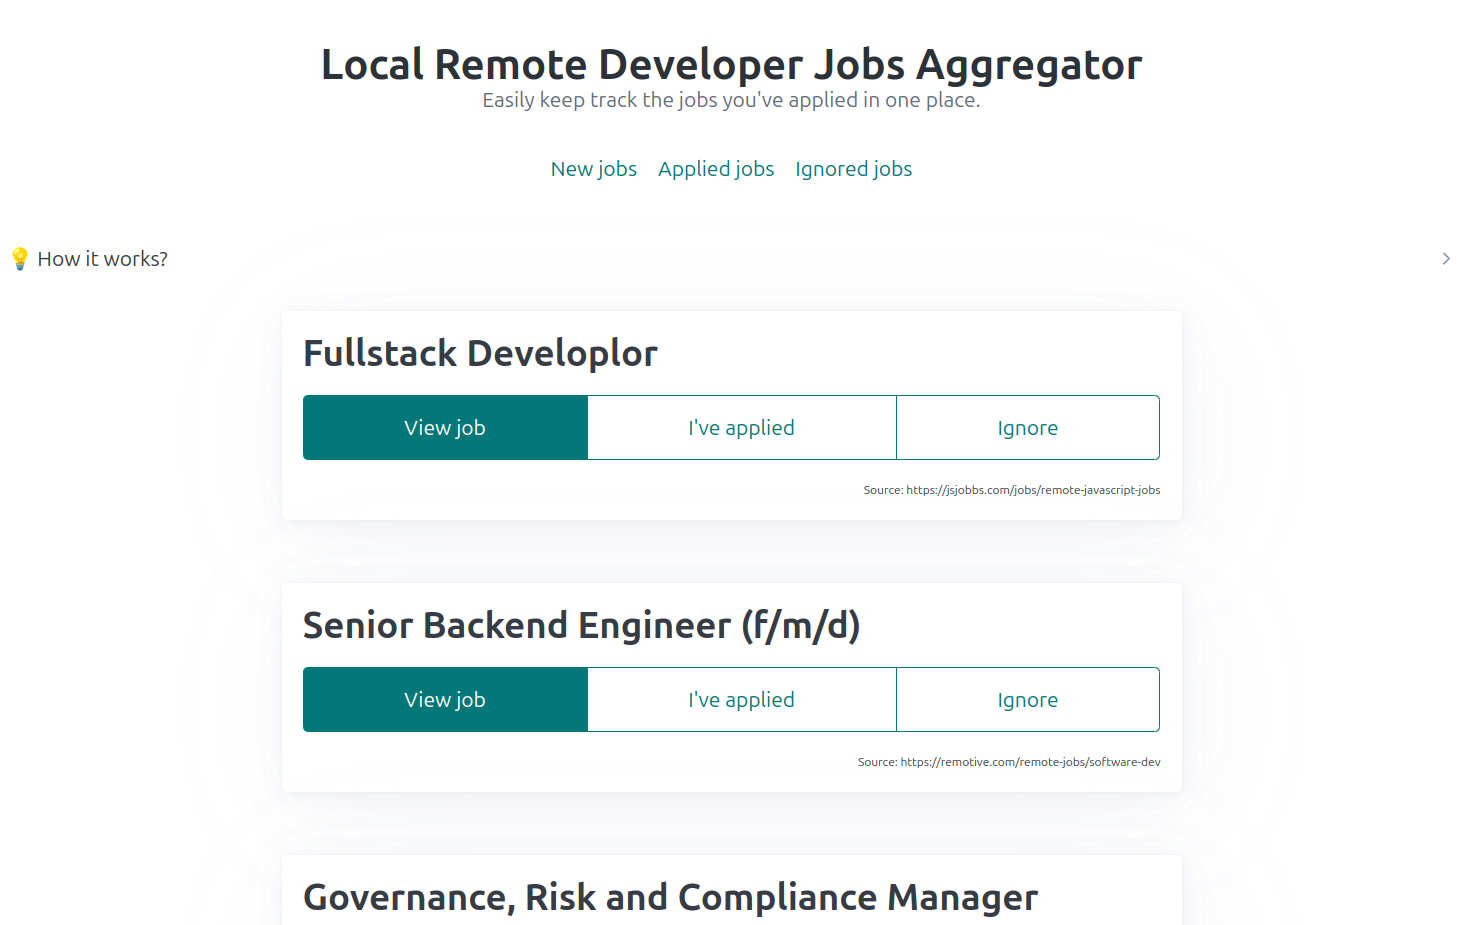
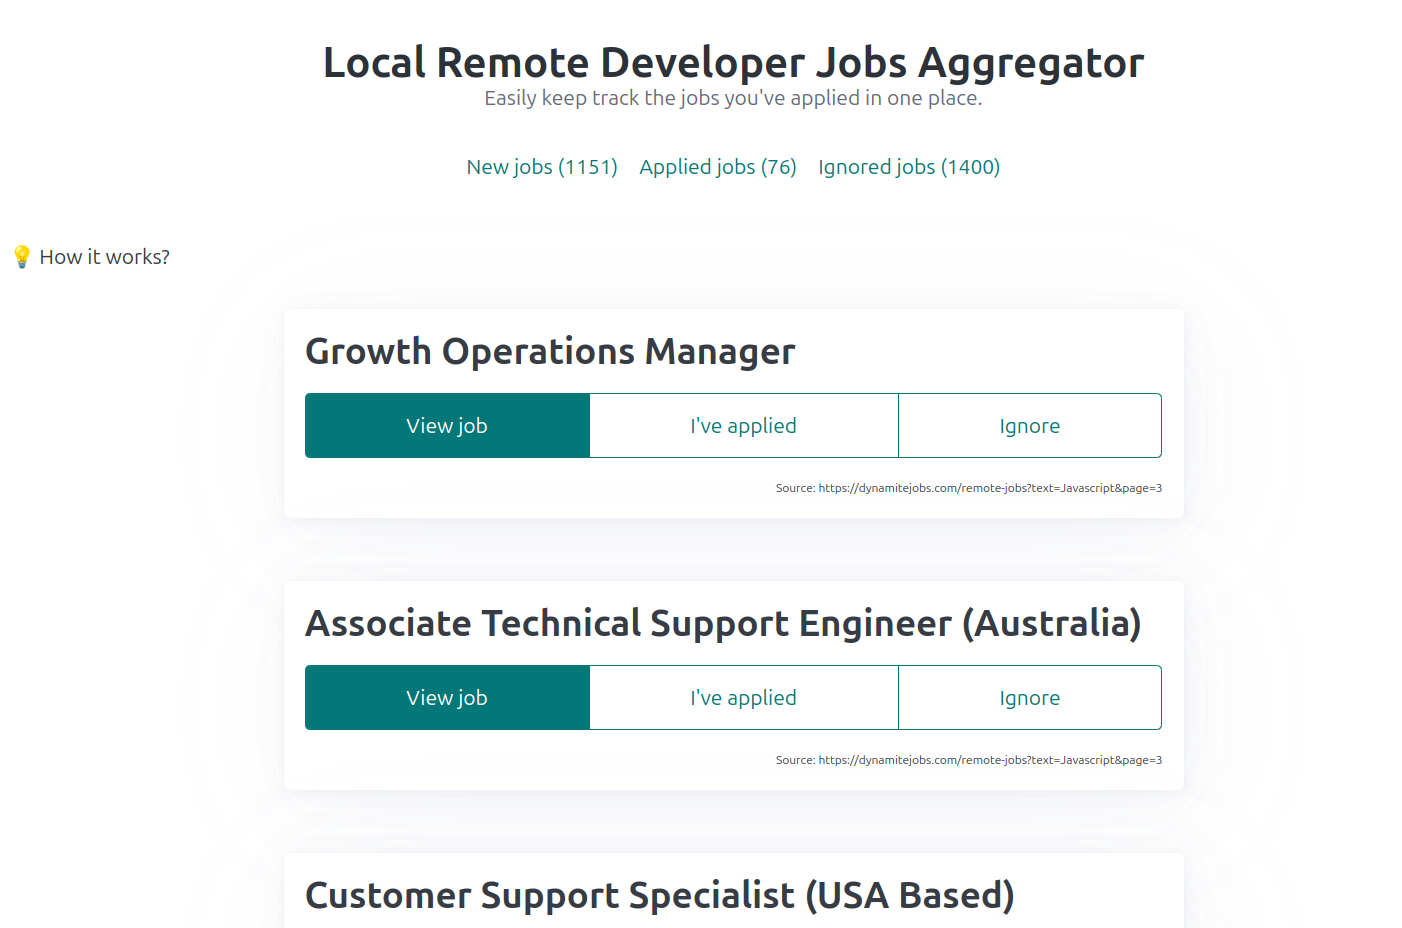
feat: added counter for new, applied and ignored jobs

diff --git a/server.ts b/server.ts
@@ -14,29 +14,33 @@ nunjucks.configure('templates', { autoescape: true })
 
 app.get('/', (c) => {
     const newJobs = repo.getNewJobs()
+    const jobsCount = repo.countJobs()
     return c.html(nunjucks.render('jobs.html',
-        { jobs: newJobs, jobType: 'new', page: 1, nextPage: 2, prevPage: 1 }))
+        { jobs: newJobs, jobType: 'new', jobsCount: jobsCount, page: 1, nextPage: 2, prevPage: 1 }))
 })
 
 app.get('/new/:page', (c) => {
     const page = Number(c.req.param('page'))
     const newJobs = repo.getNewJobs(page)
+    const jobsCount = repo.countJobs()
     return c.html(nunjucks.render('jobs.html',
-        { jobs: newJobs, jobType: 'new', page: page, nextPage: page + 1, prevPage: page - 1 }))
+        { jobs: newJobs, jobType: 'new', jobsCount: jobsCount, page: page, nextPage: page + 1, prevPage: page - 1 }))
 })
 
 app.get('/applied/:page', (c) => {
     const page = Number(c.req.param('page'))
     const appliedJobs = repo.getAppliedJobs(page)
+    const jobsCount = repo.countJobs()
     return c.html(nunjucks.render('jobs.html',
-        { jobs: appliedJobs, jobType: 'applied', page: page, nextPage: page + 1, prevPage: page - 1 }))
+        { jobs: appliedJobs, jobType: 'applied', jobsCount: jobsCount, page: page, nextPage: page + 1, prevPage: page - 1 }))
 })
 
 app.get('/ignored/:page', (c) => {
     const page = Number(c.req.param('page'))
     const ignoredJobs = repo.getIgnoredJobs(page)
+    const jobsCount = repo.countJobs()
     return c.html(nunjucks.render('jobs.html',
-        { jobs: ignoredJobs, jobType: 'ignored', page: page, nextPage: page + 1, prevPage: page - 1 }))
+        { jobs: ignoredJobs, jobType: 'ignored', jobsCount: jobsCount, page: page, nextPage: page + 1, prevPage: page - 1 }))
 })
 
 

diff --git a/repo.ts b/repo.ts
@@ -16,6 +16,13 @@ export interface Job extends RawJob {
 }
 
 
+const jobTypeFilter = {
+    new: "applied = 0 AND ignored = 0",
+    applied: "applied = 1",
+    ignored: "ignored = 1"
+}
+
+
 export class Repo {
     db: Database
 
@@ -118,17 +125,36 @@ export class Repo {
 
         const { limit, offset } = Repo.getLimitOffsetFromPage(page)
 
-        const jobTypeFilter = {
-            new: "applied = 0 AND ignored = 0",
-            applied: "applied = 1",
-            ignored: "ignored = 1"
-        }
-
         const rows = this.db.query(
             `SELECT * FROM jobs WHERE ${jobTypeFilter[jobType]} ORDER BY datetime(timestamp) DESC LIMIT ${limit} OFFSET ${offset};`
         ).all()
 
         return rows
+    }
+
+    countJobs() {
+
+
+        const countRows = (jobType: string) => {
+            const response: any = this.db.query(
+                `SELECT COUNT(*) FROM jobs WHERE ${jobTypeFilter[jobType]};`
+            ).get()
+            if (response["COUNT(*)"]) return response["COUNT(*)"]
+            return 0
+        }
+
+
+        const newJobsCount = Number(countRows("new"))
+        const appliedJobsCount = Number(countRows("applied"))
+        const ignoredJobsCount = Number(countRows("ignored"))
+
+        const counted: { [key: string]: number } = {
+            new: newJobsCount,
+            applied: appliedJobsCount,
+            ignored: ignoredJobsCount
+        }
+
+        return counted
     }
 
     getNewJobs(page: number = 1) {

diff --git a/templates/base.html b/templates/base.html
@@ -70,9 +70,9 @@
 
         <nav>
             <ul>
-                <li><a href="/new/1">New jobs</a></li>
-                <li><a href="/applied/1">Applied jobs</a></li>
-                <li><a href="/ignored/1">Ignored jobs</a></li>
+                <li><a href="/new/1">New jobs ({{jobsCount.new}})</a></li>
+                <li><a href="/applied/1">Applied jobs ({{jobsCount.applied}})</a></li>
+                <li><a href="/ignored/1">Ignored jobs ({{jobsCount.ignored}})</a></li>
             </ul>
         </nav>
 

diff --git a/README.md b/README.md
@@ -4,11 +4,13 @@ Easily keep track the jobs you've applied in one place.
 Fork it and modify it with your own prefered job boards.
 
 
+
 ## Quickstart
 
 - clone this repo;
 - [install bunjs](https://bun.sh/docs/installation);
 - load extension in browser (`edge://extensions/` or `chrome://extensions/` then `Load unpacked` point to `chrome-extension` folder);
+- (One-time task) Open each website from manifest.json `content_scripts.matches` - accept pop-ups/cookies/make account;
 - run `bun install`;
 - run `bun server.ts`;
 - click `Collect jobs` button (let it do it's thing);
